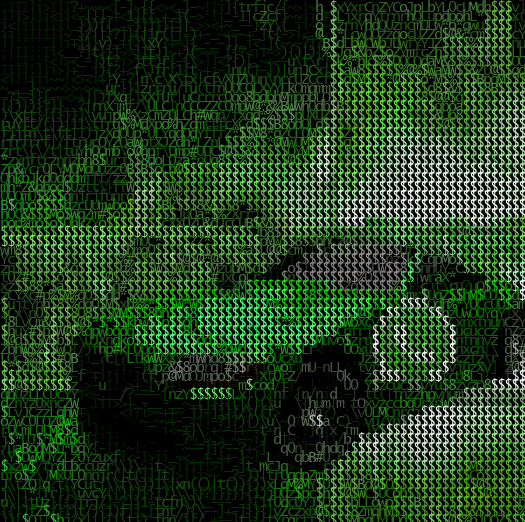
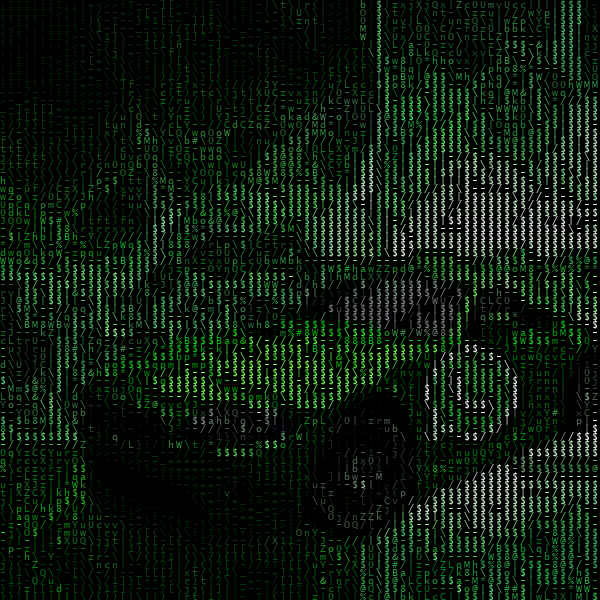
More module cleanup

diff --git a/asciify.py b/asciify.py
@@ -8,51 +8,47 @@ from PIL import Image, ImageDraw, ImageFont, ImageFilter
 import numpy as np
 import os
 
-CRT_SCAN_LINE_COLOR = 50
-
-def apply_crt_effect(image):
-    crt_image = image.copy()
-    width, height = crt_image.size
-    pixels = crt_image.load()
-    
-    for y in range(height):
-        if y % 2 == 0:
-            for x in range(width):
-                r, g, b = pixels[x, y]
-                pixels[x, y] = (r // 2, g // 2, b // 2)
-    
-    crt_image = crt_image.filter(ImageFilter.GaussianBlur(1))
-    return crt_image
-
-def apply_sepia_filter(image):
-    sepia_image = np.array(image)
-    sepia_filter = np.array([[0.272, 0.534, 0.131],
-                             [0.349, 0.686, 0.168],
-                             [0.393, 0.769, 0.189]])
-                             
-    sepia_image = cv2.transform(sepia_image, sepia_filter)
-    sepia_image = np.clip(sepia_image, 0, 255)
-    return Image.fromarray(sepia_image.astype(np.uint8))
-
-def apply_color_tint(image, tint_color):
-    tinted_image = Image.new("RGB", image.size)
-    image = image.convert("RGB") 
-    tint_color_image = Image.new("RGB", tinted_image.size, tint_color)
-    blended = Image.blend(image, tint_color_image, alpha=0.3)
-    return blended
-
-def asciify_frame(
-        frame, scale_factor=0.15, one_char_width=8, one_char_height=8, color_brightness=1, pixel_brightness=2.15, monochrome=False, filters=None,
-        overlay_contours=True, contour_depth_minimum_threshold = 0, contour_depth_maximum_threshold = 255, progress_bar=False
+def _asciify_frame(
+        frame, scale_factor=0.15, one_char_width=8, one_char_height=8, color_brightness=1, pixel_brightness=2.15, char_set = "$@B%8&WM#*oahkbdpqwmZO0QLCJUYXzcvunxrjft/\\|()1{}[]?-_+~<>i!lI;:,\"^`'. ",
+        monochrome=False, filters=None, overlay_contours=True, contour_depth_minimum_threshold = 0, contour_depth_maximum_threshold = 255, progress_bar=False
     ):
     
-    chars = "■@?0Poc;. "[::-1]
-    # chars = "$@B%8&WM#*oahkbdpqwmZO0QLCJUYXzcvunxrjft/\\|()1{}[]?-_+~<>i!lI;:,\"^`'. "[::-1]
+    chars = char_set[::-1]
     charArray = list(chars)
     charLength = len(charArray)
     interval = charLength / 256
-
     contour_chars = "|/-\\_ "
+
+    def apply_crt_effect(image):
+        crt_image = image.copy()
+        width, height = crt_image.size
+        pixels = crt_image.load()
+        
+        for y in range(height):
+            if y % 2 == 0:
+                for x in range(width):
+                    r, g, b = pixels[x, y]
+                    pixels[x, y] = (r // 2, g // 2, b // 2)
+        
+        crt_image = crt_image.filter(ImageFilter.GaussianBlur(1))
+        return crt_image
+
+    def apply_sepia_filter(image):
+        sepia_image = np.array(image)
+        sepia_filter = np.array([[0.272, 0.534, 0.131],
+                                [0.349, 0.686, 0.168],
+                                [0.393, 0.769, 0.189]])
+                                
+        sepia_image = cv2.transform(sepia_image, sepia_filter)
+        sepia_image = np.clip(sepia_image, 0, 255)
+        return Image.fromarray(sepia_image.astype(np.uint8))
+
+    def apply_color_tint(image, tint_color):
+        tinted_image = Image.new("RGB", image.size)
+        image = image.convert("RGB") 
+        tint_color_image = Image.new("RGB", tinted_image.size, tint_color)
+        blended = Image.blend(image, tint_color_image, alpha=0.3)
+        return blended
     
     def getChar(inputInt):
         return charArray[math.floor(inputInt * interval)]
@@ -128,12 +124,9 @@ def asciify_frame(
     output_frame = np.array(outputImage)
     return output_frame
 
-def convert_frame(args):
-    return asciify_frame(*args)
-
 def ascii_photo(
-        in_path, final_path, scale_factor=0.15, one_char_width=8, one_char_height=8, color_brightness=1, pixel_brightness=2.15, monochrome=False, filters=None,
-        overlay_contours=True, contour_depth_minimum_threshold = 0, contour_depth_maximum_threshold = 255, progress_bar=False
+        in_path, out_path, scale_factor=0.15, one_char_width=8, one_char_height=8, color_brightness=1, pixel_brightness=2.15, char_set = "$@B%8&WM#*oahkbdpqwmZO0QLCJUYXzcvunxrjft/\\|()1{}[]?-_+~<>i!lI;:,\"^`'. ",
+        monochrome=False, filters=None, overlay_contours=True, contour_depth_minimum_threshold = 0, contour_depth_maximum_threshold = 255, progress_bar=False
     ):
     """
     Asciifies a photo from a path, and saves it to a file.
@@ -141,9 +134,9 @@ def ascii_photo(
     Parameters:
     - in_path: String.
         Relative path to the input image.
-    - final_path: String.
+    - out_path: String.
         Relative path to the output image. Doesn't need to exist.
-    - scaleFactor: Float.
+    - scale_factor: Float.
         Controls the image quality in the ASCII image.
         Default is 0.15.
     - one_char_width: Int.
@@ -158,6 +151,9 @@ def ascii_photo(
     - pixel_brightness: Float.
         Specify brightness multiplier of the drawn pixels in the frame.
         Default is 2.15.
+    - char_set: String.
+        A string containing all the ASCII/Unicode characters to represent pixels (going from lightest to darkest.)
+        Default is a predertimened string for an ASCII set.
     - monochrome: Bool.
         If True, a frames are rendered using only grayscale colors.
         Default is False.
@@ -186,18 +182,18 @@ def ascii_photo(
 
     cap = cv2.imread(in_path)
     frame_args = (
-        cap, scale_factor, one_char_width, one_char_height, color_brightness, pixel_brightness, monochrome, filters,
-        overlay_contours, contour_depth_minimum_threshold, contour_depth_maximum_threshold, progress_bar
+        cap, scale_factor, one_char_width, one_char_height, color_brightness, pixel_brightness, char_set, monochrome, 
+        filters, overlay_contours, contour_depth_minimum_threshold, contour_depth_maximum_threshold, progress_bar
     )
-    ascii_frame = Image.fromarray(convert_frame(frame_args), 'RGB')
-    ascii_frame.save(final_path)
+    ascii_frame = Image.fromarray(_asciify_frame(*frame_args), 'RGB')
+    ascii_frame.save(out_path)
     if progress_bar: 
-        print(f"Saved asciified photo to {final_path}")
+        print(f"Saved asciified photo to {out_path}")
 
 
 def ascii_video(
-        in_path, final_path, scale_factor = 0.15, one_char_width = 8, one_char_height = 8, color_brightness=1, pixel_brightness=2.15, monochrome=False, filters=None,
-        overlay_contours = True, contour_depth_minimum_threshold = 0, contour_depth_maximum_threshold = 255, low_res_audio = True, progress_bar = True, num_workers=None
+        in_path, out_path, scale_factor = 0.15, one_char_width = 8, one_char_height = 8, color_brightness=1, pixel_brightness=2.15, char_set = "$@B%8&WM#*oahkbdpqwmZO0QLCJUYXzcvunxrjft/\\|()1{}[]?-_+~<>i!lI;:,\"^`'. ",
+        monochrome=False, filters=None, overlay_contours = True, contour_depth_minimum_threshold = 0, contour_depth_maximum_threshold = 255, low_res_audio = True, progress_bar = True, num_workers=None
     ):
     """
     Asciifies a video from a path, and saves it to a file.
@@ -205,7 +201,7 @@ def ascii_video(
     Parameters:
     - in_path: String.
         Relative path to the input video.
-    - final_path: String.
+    - out_path: String.
         Relative path to the output video. Doesn't need to exist.
     - scale_factor: Float.
         Controls the video quality in the ASCII video.
@@ -222,6 +218,9 @@ def ascii_video(
     - pixel_brightness: Float.
         Specify brightness multiplier of the drawn pixels in the frame.
         Default is 2.15.
+    - char_set: String.
+        A string containing all the ASCII/Unicode characters to represent pixels (going from lightest to darkest.)
+        Default is a predertimened string for an ASCII set.
     - monochrome: Bool.
         If True, a frames are rendered using only grayscale colors.
         Default is False.
@@ -272,8 +271,8 @@ def ascii_video(
         ret, frame = cap.read()
         if ret:
             frame_args.append((
-                frame, scale_factor, one_char_width, one_char_height, color_brightness, pixel_brightness, monochrome, filters,
-                overlay_contours, contour_depth_minimum_threshold, contour_depth_maximum_threshold, False
+                frame, scale_factor, one_char_width, one_char_height, color_brightness, pixel_brightness, char_set, monochrome, 
+                filters, overlay_contours, contour_depth_minimum_threshold, contour_depth_maximum_threshold, False
             ))
         else:
             break
@@ -281,7 +280,7 @@ def ascii_video(
     cap.release()
 
     with Pool(num_workers) as pool:
-        ascii_frames = list(tqdm(pool.imap(convert_frame, frame_args), total=len(frame_args), desc="Converting frames", disable = not progress_bar, leave=False))
+        ascii_frames = list(tqdm(pool.imap(_asciify_frame, *frame_args), total=len(frame_args), desc="Converting frames", disable = not progress_bar, leave=False))
         pool.close()
         pool.join()
 
@@ -317,7 +316,7 @@ def ascii_video(
     else:
         temp_audio_path = None
 
-    with FFMPEG_VideoWriter(final_path, fps=fps, size=clip.size, codec='libx264', logfile=None, threads=num_workers, audiofile=temp_audio_path, ffmpeg_params=['-strict', '-2']) as writer:
+    with FFMPEG_VideoWriter(out_path, fps=fps, size=clip.size, codec='libx264', logfile=None, threads=num_workers, audiofile=temp_audio_path, ffmpeg_params=['-strict', '-2']) as writer:
         frame_iterator = tqdm(clip.iter_frames(fps), total=int(clip.duration*fps), desc = "Adding audio", disable = not progress_bar, leave=False)
 
         for frame in frame_iterator:

diff --git a/test.py b/test.py
@@ -1,0 +1,3 @@
+import asciify
+
+asciify.ascii_photo("photo_pre.jpg","photo_post.png")

diff --git a/README.md b/README.md
@@ -25,8 +25,8 @@ To asciify a photo, use `ascii_photo()` like so:
 
 ```python
 def ascii_photo(
-        in_path, final_path, scale_factor=0.15, one_char_width=8, one_char_height=8, color_brightness=1, pixel_brightness=2.15, monochrome=False, filters=None,
-        overlay_contours=True, contour_depth_minimum_threshold = 0, contour_depth_maximum_threshold = 255, progress_bar=False
+        in_path, out_path, scale_factor=0.15, one_char_width=8, one_char_height=8, color_brightness=1, pixel_brightness=2.15, char_set = "$@B%8&WM#*oahkbdpqwmZO0QLCJUYXzcvunxrjft/\\|()1{}[]?-_+~<>i!lI;:,\"^`'. ",
+        monochrome=False, filters=None, overlay_contours=True, contour_depth_minimum_threshold = 0, contour_depth_maximum_threshold = 255, progress_bar=False
     ):
     """
     Asciifies a photo from a path, and saves it to a file.
@@ -34,9 +34,9 @@ def ascii_photo(
     Parameters:
     - in_path: String.
         Relative path to the input image.
-    - final_path: String.
+    - out_path: String.
         Relative path to the output image. Doesn't need to exist.
-    - scaleFactor: Float.
+    - scale_factor: Float.
         Controls the image quality in the ASCII image.
         Default is 0.15.
     - one_char_width: Int.
@@ -51,6 +51,9 @@ def ascii_photo(
     - pixel_brightness: Float.
         Specify brightness multiplier of the drawn pixels in the frame.
         Default is 2.15.
+    - char_set: String.
+        A string containing all the ASCII/Unicode characters to represent pixels (going from lightest to darkest.)
+        Default is a predertimened string for an ASCII set.
     - monochrome: Bool.
         If True, a frames are rendered using only grayscale colors.
         Default is False.
@@ -78,8 +81,8 @@ To asciify a video, use `ascii_video()` like so:
 
 ```python
 def ascii_video(
-        in_path, final_path, scale_factor = 0.15, one_char_width = 8, one_char_height = 8, color_brightness=1, pixel_brightness=2.15, monochrome=False, filters=None,
-        overlay_contours = True, contour_depth_minimum_threshold = 0, contour_depth_maximum_threshold = 255, low_res_audio = True, progress_bar = True, num_workers=None
+        in_path, out_path, scale_factor = 0.15, one_char_width = 8, one_char_height = 8, color_brightness=1, pixel_brightness=2.15, char_set = "$@B%8&WM#*oahkbdpqwmZO0QLCJUYXzcvunxrjft/\\|()1{}[]?-_+~<>i!lI;:,\"^`'. ",
+        monochrome=False, filters=None, overlay_contours = True, contour_depth_minimum_threshold = 0, contour_depth_maximum_threshold = 255, low_res_audio = True, progress_bar = True, num_workers=None
     ):
     """
     Asciifies a video from a path, and saves it to a file.
@@ -87,7 +90,7 @@ def ascii_video(
     Parameters:
     - in_path: String.
         Relative path to the input video.
-    - final_path: String.
+    - out_path: String.
         Relative path to the output video. Doesn't need to exist.
     - scale_factor: Float.
         Controls the video quality in the ASCII video.
@@ -104,6 +107,9 @@ def ascii_video(
     - pixel_brightness: Float.
         Specify brightness multiplier of the drawn pixels in the frame.
         Default is 2.15.
+    - char_set: String.
+        A string containing all the ASCII/Unicode characters to represent pixels (going from lightest to darkest.)
+        Default is a predertimened string for an ASCII set.
     - monochrome: Bool.
         If True, a frames are rendered using only grayscale colors.
         Default is False.
